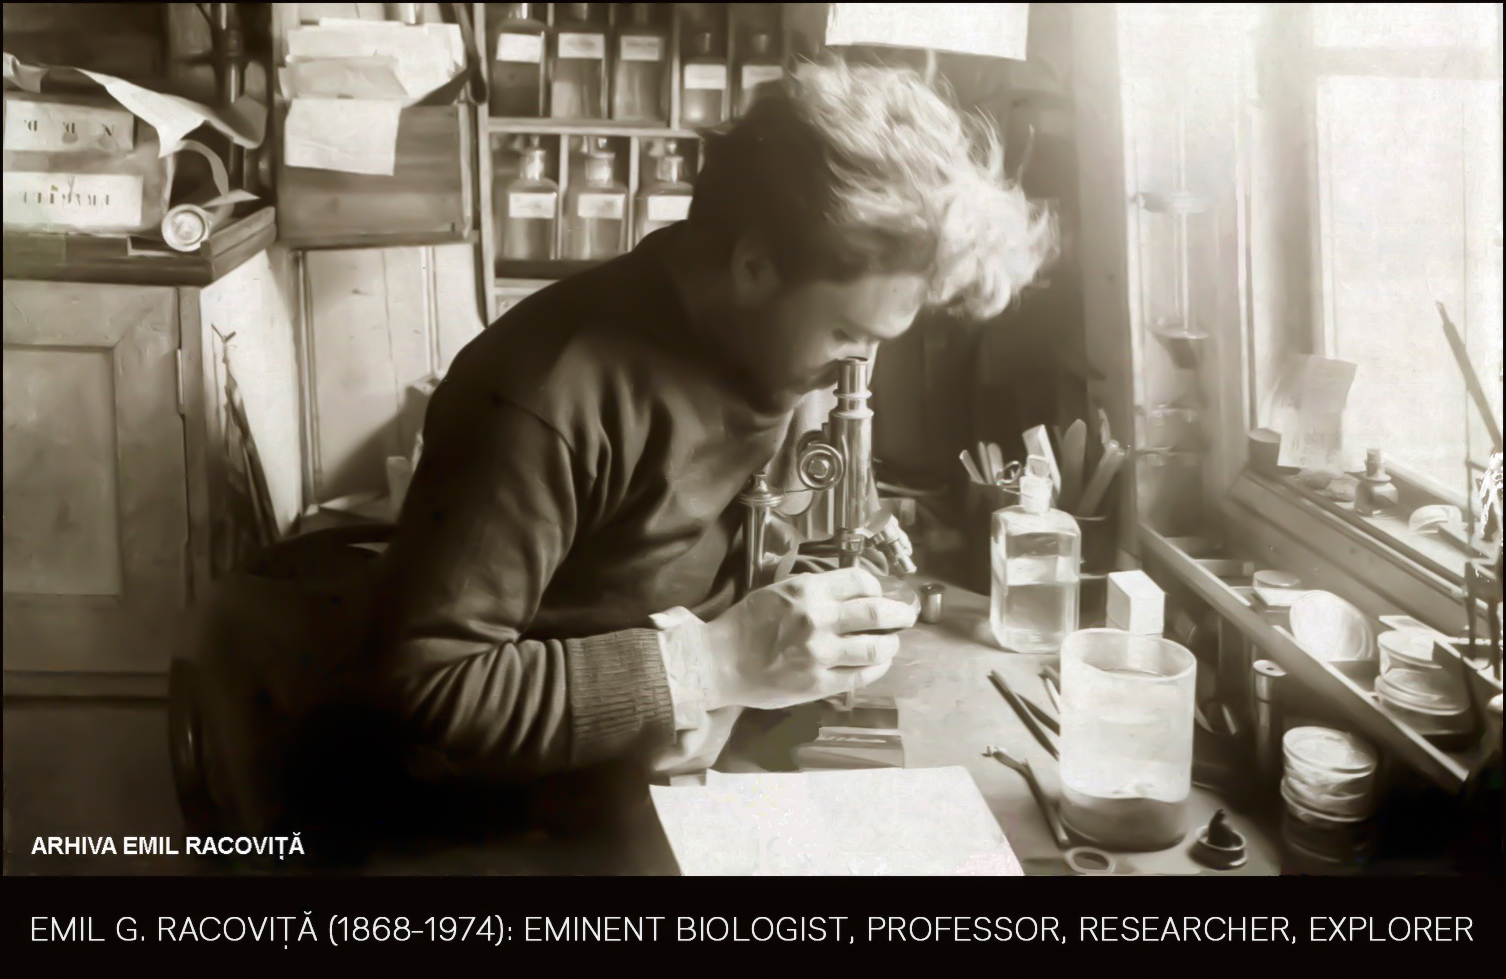
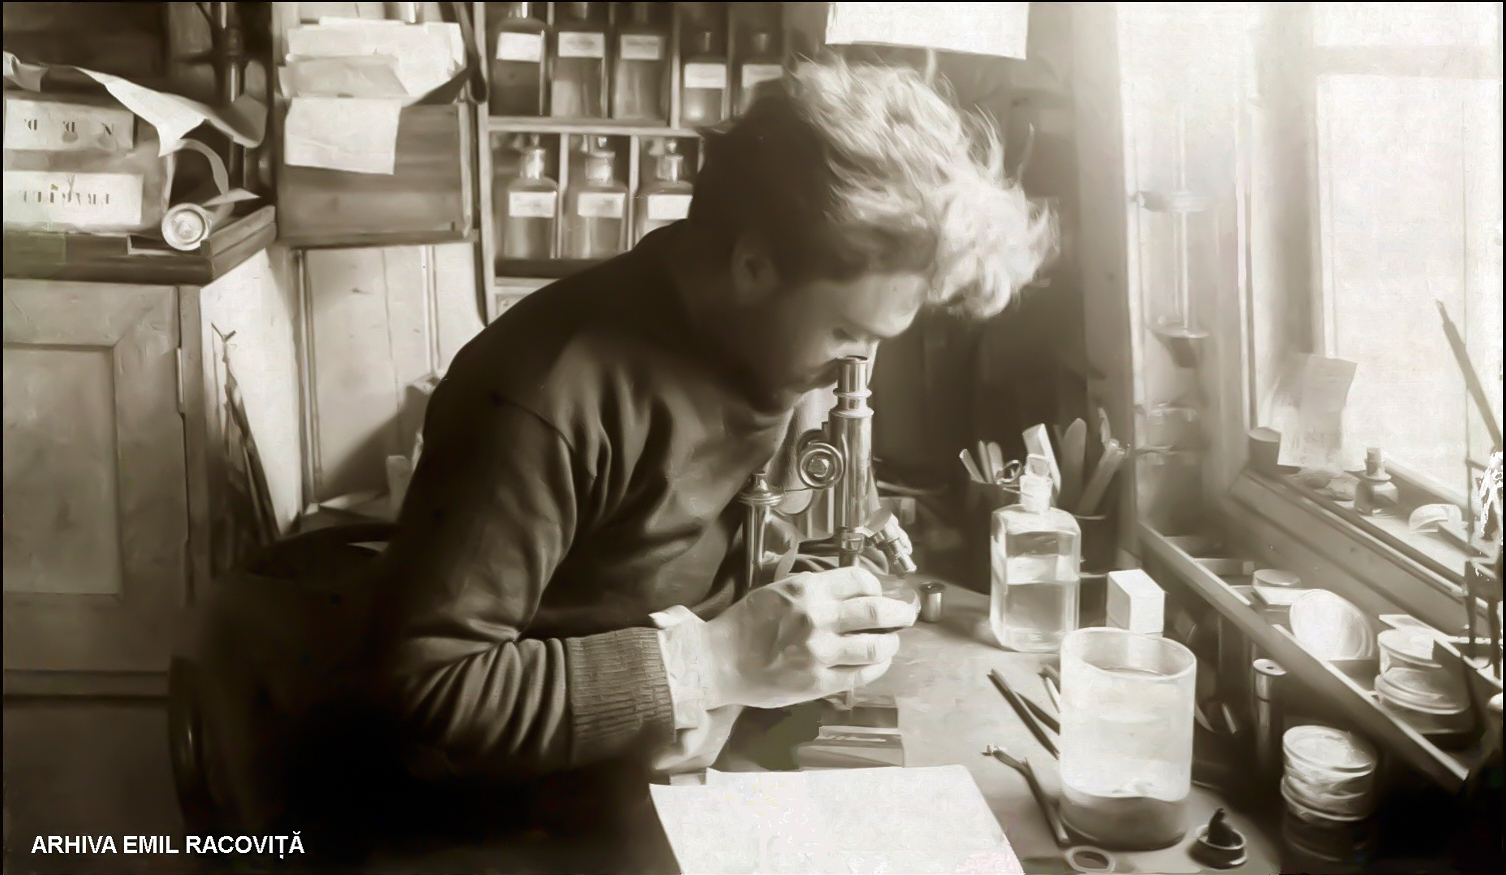
fix caption for front page birth dates

diff --git a/_layouts/home.html b/_layouts/home.html
@@ -28,10 +28,13 @@ layout: default
       <p><em>"{{ section.contents[page.lang] }}"</em></p>
     </div>
     <div class="col-lg-1 col-md-0 col-md-0">&nbsp;</div>
-    <div class="c4-feature-img col-lg-6 col-md-12 px-0">
+    <figure class="c4-feature-img col-lg-6 col-md-12 px-0">
       <img src="/assets/images/Racovita-pe-Belgica-front-page.jpg"
            class="img-fluid">
-    </div>
+      <figcaption class="black-photo-caption text-uppercase p-3">
+           {{ section.caption[page.lang] }}
+      </figcaption>
+    </figure>
   </div>
 </div>
 

diff --git a/_sass/c4/_features.scss b/_sass/c4/_features.scss
@@ -20,6 +20,15 @@
             overflow: hidden;
         }
     }
+    .black-photo-caption {
+        background: $c4-black;
+        color: $c4-white;
+        > h4 {
+            color: $c4-white;
+            margin-top: 0px;
+            overflow: hidden;
+        }
+    }
 }
 
 .c4-section  {
